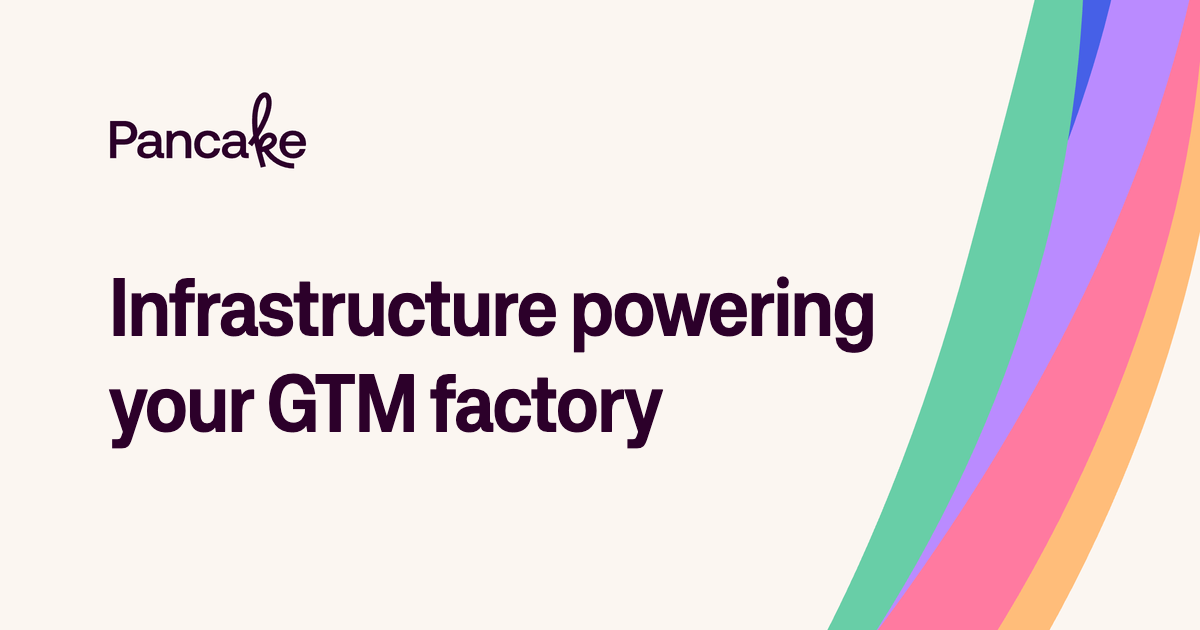
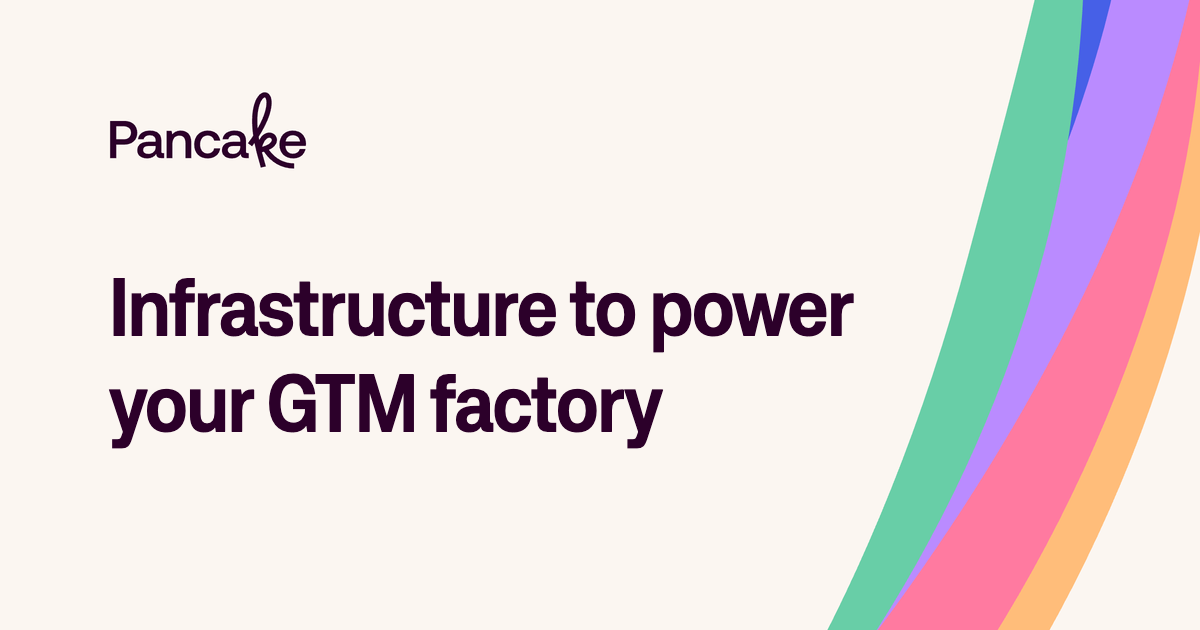
feat(home): H1 "Infrastructure to power your GTM factory"
The homepage and /demo H1 read "Infrastructure to power / your GTM
factory" (was "powering"). The share card is redrawn over the same
card with the new line (og-image-2026-10-28b.png, a new name so chat
apps fetch it again; /og-image.png follows), and the social title and
the card's alt text follow. The first line is a little shorter, so the
H1 keeps its size and fit rules.

Changed region(s): [[0.4625, 0.4222, 0.74, 0.573]]

diff --git a/app/_styles/landing-v3/hero.css b/app/_styles/landing-v3/hero.css
@@ -219,14 +219,15 @@
   transform: none;
   width: auto; /* the H1 sizes it (V1's 656 box held the 69 px lines) */
 }
-/* The humans H1 since 2026-10-28: "Infrastructure powering / your GTM factory" (founder:
-   "should be 'Infrastructure powering your GTM factory'?", then "go with this h1"; it was "to
-   run" from 2026-10-27), two lines at V2's place, the left-right layout kept and the H1 as
+/* The humans H1 since 2026-10-28: "Infrastructure to power / your GTM factory" (founder, that
+   evening: "might be better en fait"; before it "Infrastructure powering", after "should be
+   'Infrastructure powering your GTM factory'?" and "go with this h1"; "to run" from 2026-10-27), two lines at V2's place, the left-right layout kept and the H1 as
    big as it can be ("Gardons cette disposition gauche droite et on met le h1 en plus gros
-   tant que c'est possible", 2026-10-27). Its first line is the longer one, 9.13 × the font
-   size wide at -0.03em ("Infrastructure to run" was 7.73), so the left column sets the size:
-   from 1201 wide up it is 768 px from the H1's edge to the right column, and 77 px keeps 56 px
-   between "powering" and the column. 1025–1200 the column narrows with the window (the right
+   tant que c'est possible", 2026-10-27). Its first line is the longer one, 8.85 × the font
+   size wide at -0.03em ("Infrastructure powering" was 9.13, "Infrastructure to run" 7.73), so
+   the left column sets the size: from 1201 wide up it is 768 px from the H1's edge to the right
+   column, and 77 px keeps 86 px between "power" and the column (the size and the rules below
+   were set for "powering" and kept). 1025–1200 the column narrows with the window (the right
    column is anchored 48 px from the right edge): width − 48 − 368 − 48 − 56, over 9.2.
    Tablets and phones take their text width, 77 px at most. Line height 0.92: the two lines are
    142 tall (the 69 px H1 was 160 at normal), so the short-window scale below keeps more room

diff --git a/lib/social-meta.ts b/lib/social-meta.ts
@@ -27,20 +27,22 @@ export const X_HANDLE = "@getpancake_ai";
  * run your GTM factory", set as the card was drawn (Aeonik Condensed 600, 82 px, line pitch
  * 96, left 109, tracking -0.0206em, #2c002a on #fbf6f1; the rainbow untouched), then on
  * 2026-10-28 "Infrastructure powering your GTM factory" the same way (og-image-2026-10-28.png;
- * its longer first line still stops 72 px before the rainbow at 82 px). The file has
+ * its longer first line still stops 72 px before the rainbow at 82 px), then the same evening
+ * "Infrastructure to power your GTM factory" (founder: "might be better en fait";
+ * og-image-2026-10-28b.png, redrawn over the same card: first line 92 px before the rainbow). The file has
  * a NEW name because chat apps and social networks keep a picture by its address: the same
  * address would keep showing the old headline. /og-image.png holds the same new picture,
  * for any page or post that still points at it. When this card changes again: new file
  * name here, and the app's own copy too (pancake-cmo apps/frontend/index.html).
  */
-export const OG_IMAGE = "/og-image-2026-10-28.png";
+export const OG_IMAGE = "/og-image-2026-10-28b.png";
 
 /** Alt text = the text printed in the card (audit 8.4), never the page's own name. */
-export const OG_IMAGE_ALT = "Infrastructure powering your GTM factory";
+export const OG_IMAGE_ALT = "Infrastructure to power your GTM factory";
 
 /** og:title / twitter:title of the homepage and of the root-layout fallback (one
  *  punctuation for both, audit 6.13). The homepage <title> stays exactly "Pancake". */
-export const HOME_SOCIAL_TITLE = "Pancake — Infrastructure powering your GTM factory";
+export const HOME_SOCIAL_TITLE = "Pancake — Infrastructure to power your GTM factory";
 
 export type SocialImage = {
   url: string;

diff --git a/lib/copy.ts b/lib/copy.ts
@@ -28,8 +28,9 @@ import {
  * seconds" (LpAudienceHeadline.tsx). His second pass that day: the first was
  * H1 "Agentic infrastructure to run your go-to-market" over a longer lede.
  * 2026-10-27: the lede stays under the founder's new H1, "Infrastructure to
- * run your GTM factory"; "Infrastructure powering your GTM factory" since
- * 2026-10-28 (it also stops echoing this line's "to run your").
+ * run your GTM factory"; "Infrastructure powering your GTM factory" on
+ * 2026-10-28, then "Infrastructure to power your GTM factory" the same evening
+ * (neither echoes this line's "to run your").
  */
 export const SITE_DESCRIPTION =
   "Pancake gives your agent the brain, the data and the tools to run your go-to-market.";

diff --git a/app/_styles/demo.css b/app/_styles/demo.css
@@ -134,8 +134,8 @@
   }
 }
 /* + .lp-display = Condensed 600. The homepage H1 since 2026-10-28: its first
-   line, "Infrastructure powering", is 9.13 times the font size wide at this
-   tracking, so the size is the breakpoint's token or the column's width / 9.2,
+   line, "Infrastructure to power", is 8.85 times the font size wide at this
+   tracking ("Infrastructure powering", the line these rules were set for: 9.13), so the size is the breakpoint's token or the column's width / 9.2,
    whichever is smaller: two lines at every width, never three. */
 .demo-title {
   font-size: min(var(--demo-title-size), calc(100cqi / 9.2));

diff --git a/components/sections/landing-v3/LpAudienceHeadline.tsx b/components/sections/landing-v3/LpAudienceHeadline.tsx
@@ -111,7 +111,7 @@ export function AudienceHeadline() {
 
   return <>
     <h1 id="lp-hero-title" className="lp-hero-title__copy" aria-hidden={agents}>
-      Infrastructure powering <br />your GTM factory
+      Infrastructure to power <br />your GTM factory
     </h1>
     <span
       className="lp-hero-title__copy lp-hero-title__copy--agent"

diff --git a/components/sections/demo/demo-copy.ts b/components/sections/demo/demo-copy.ts
@@ -31,7 +31,7 @@ export const META = {
  * change this block too.
  */
 export const HERO = {
-  titleLine1: "Infrastructure powering",
+  titleLine1: "Infrastructure to power",
   titleLine2: "your GTM factory",
   ledeBefore: "Pancake gives your agent the brain, the data and the tools to run your ",
   ledeNowrap: "go-to-market",
